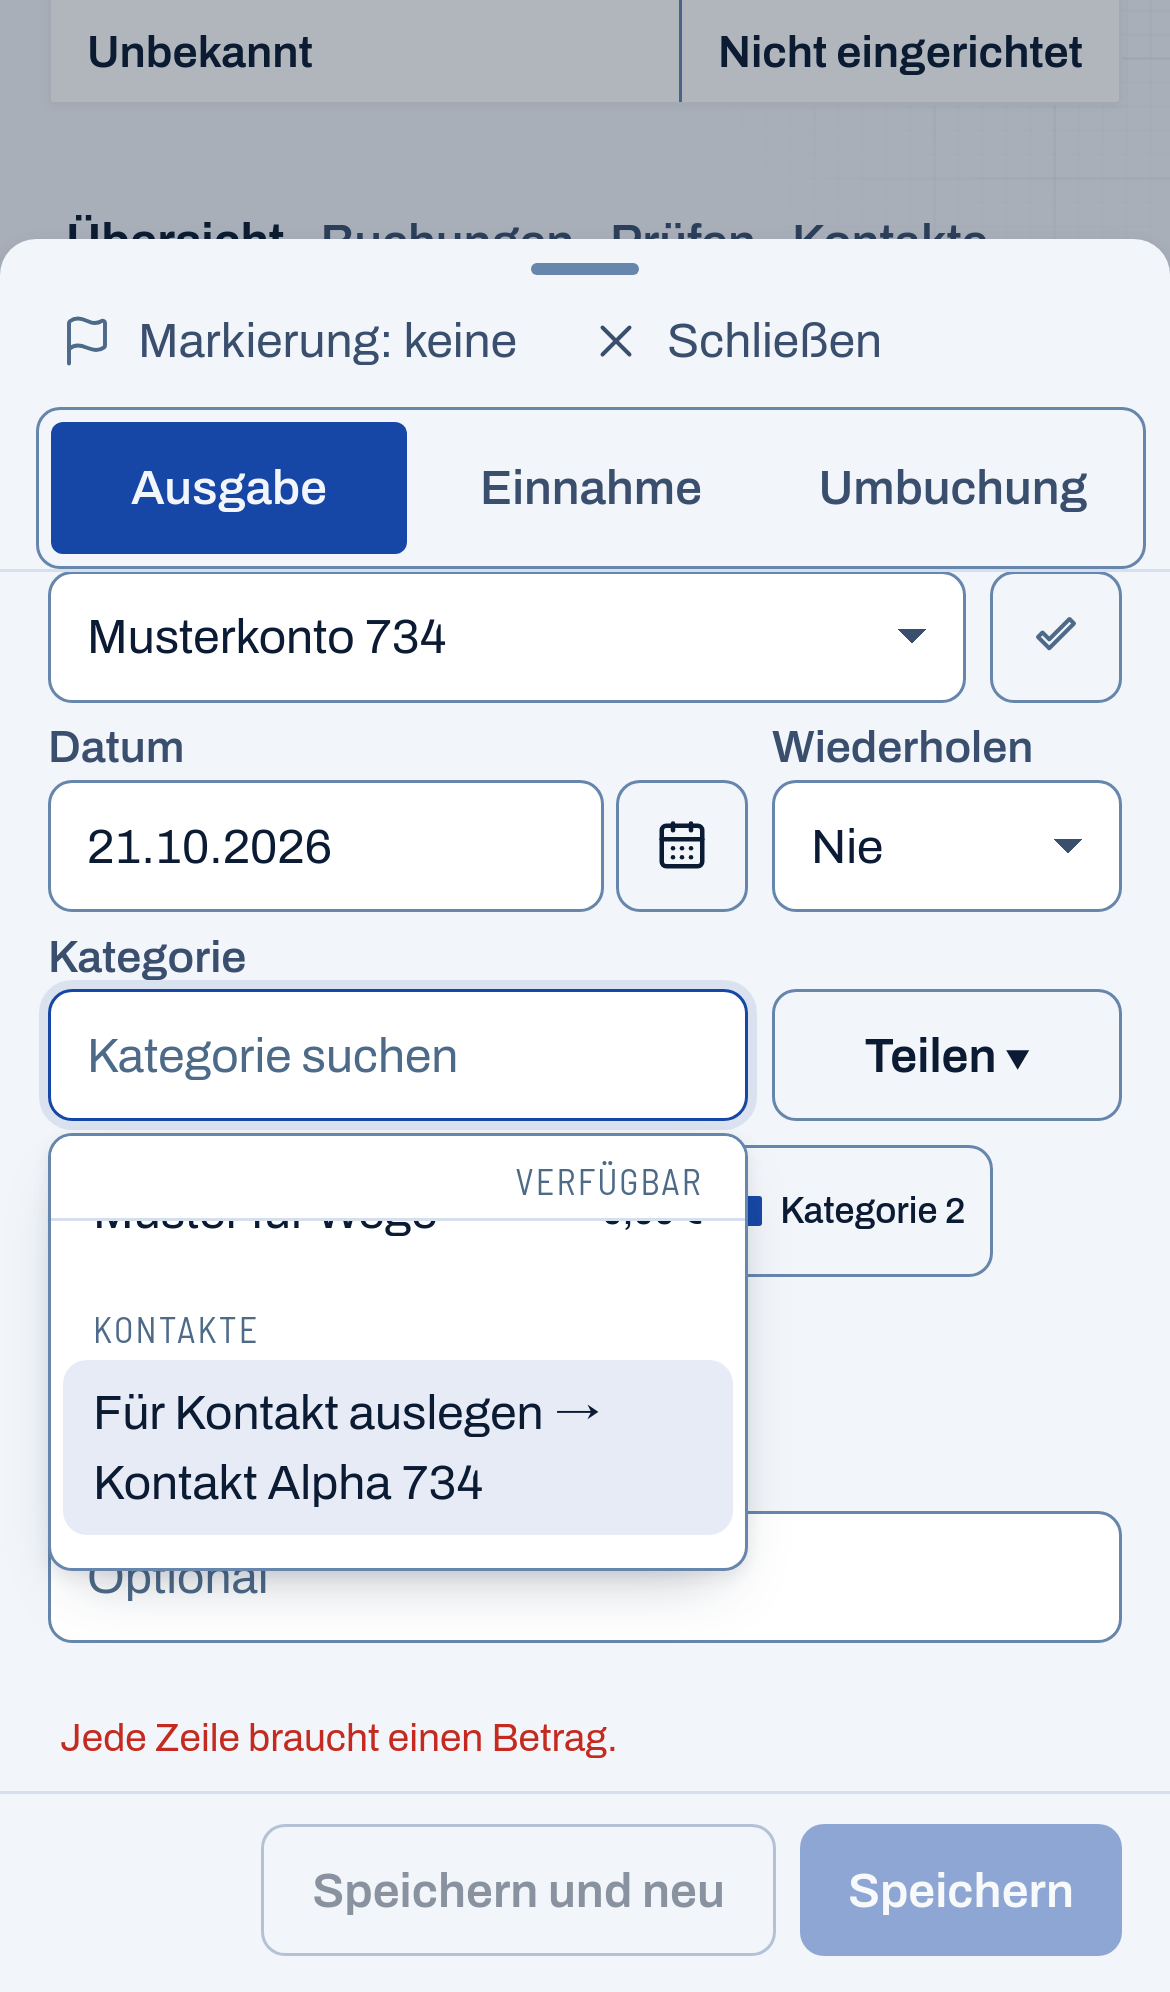
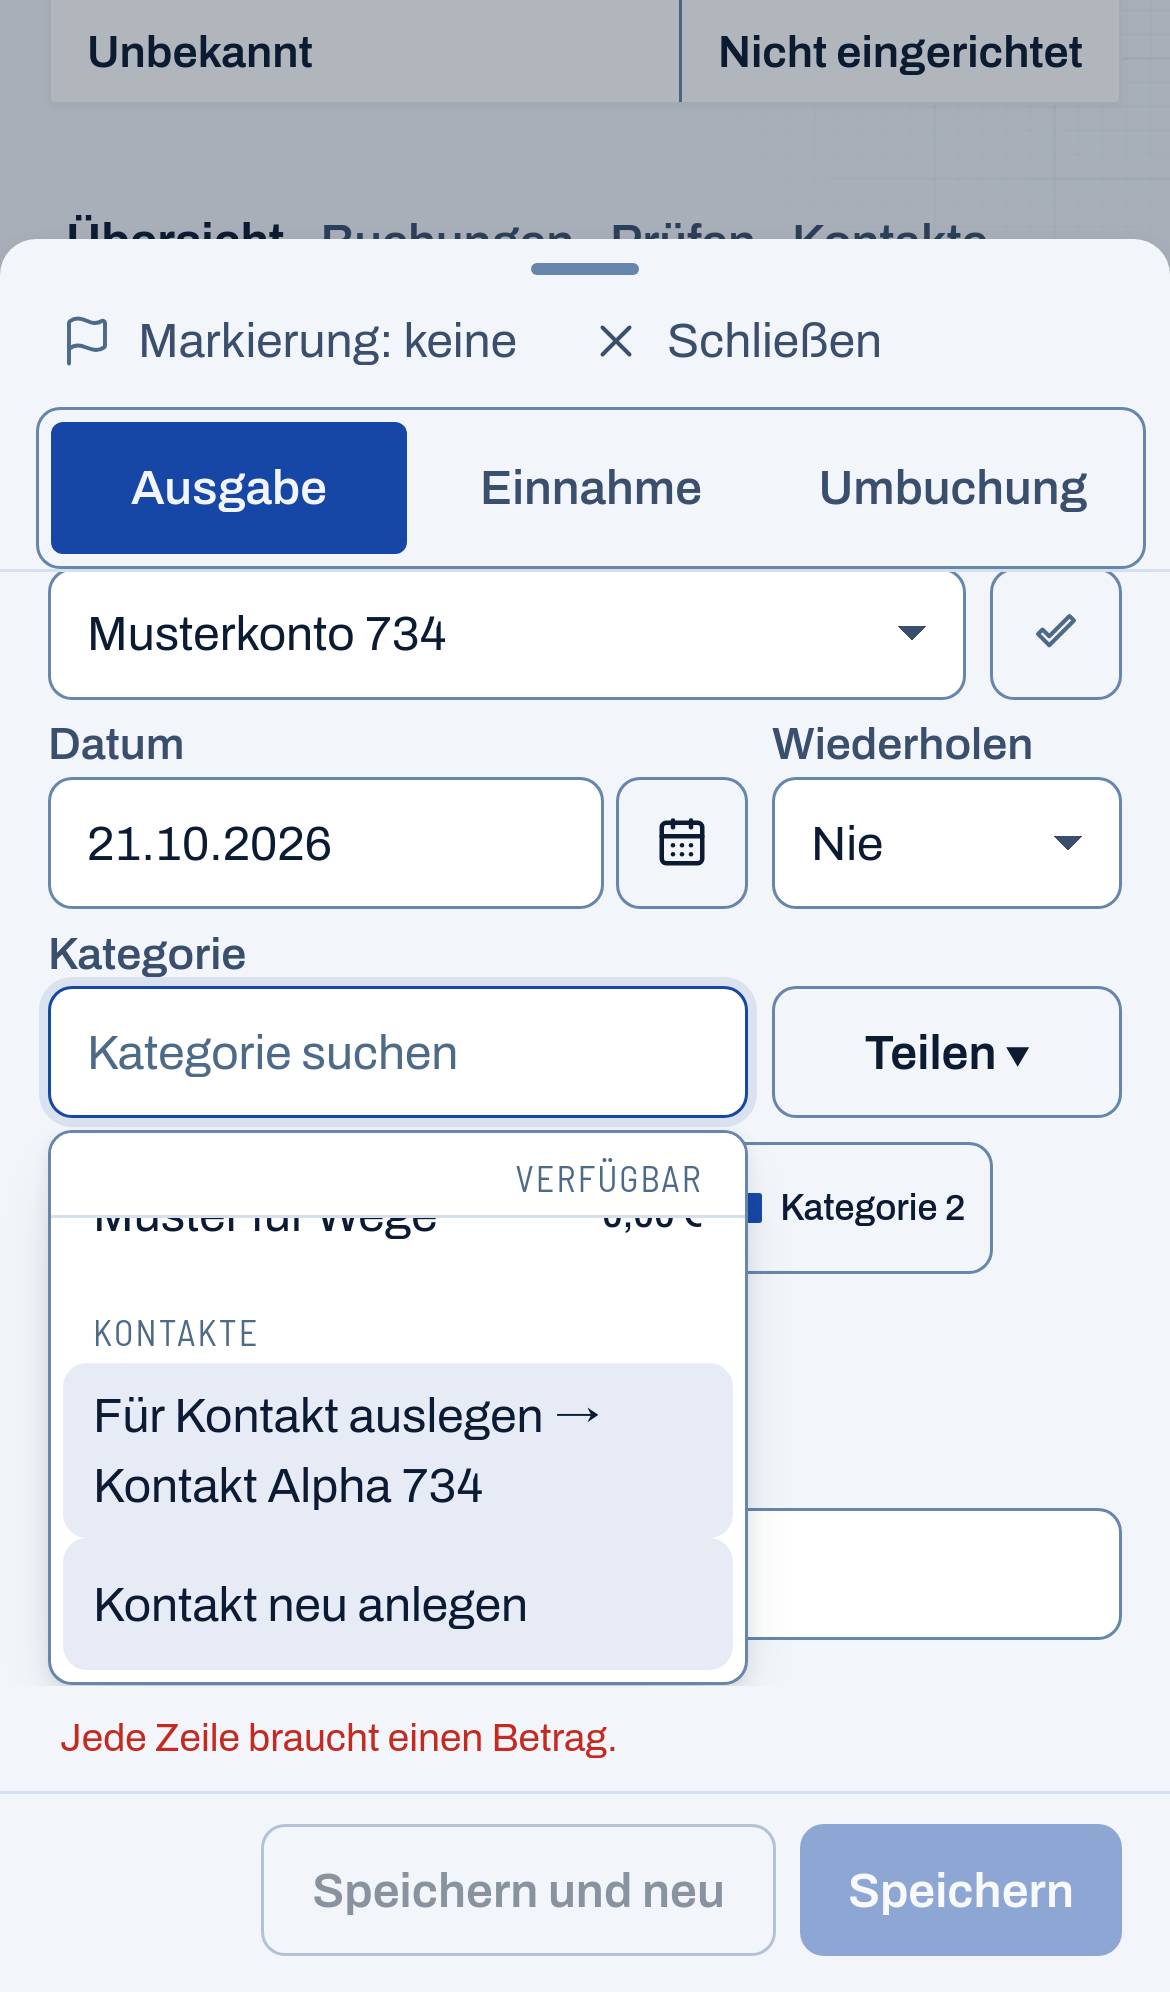
fix(ui): preserve capture picker focus and scroll visibility
Refs #734. Preserve failed full-check and independent build results in evidence.

diff --git a/apps/web/src/ledger/capture-category-picker-734.test.tsx b/apps/web/src/ledger/capture-category-picker-734.test.tsx
@@ -1,10 +1,10 @@
 // @vitest-environment jsdom
 import { QueryClient, QueryClientProvider } from '@tanstack/react-query';
 import { ToastProvider } from '@budget/ui';
-import { cleanup, render, screen } from '@testing-library/react';
+import { act, cleanup, render, screen } from '@testing-library/react';
 import userEvent from '@testing-library/user-event';
 import { useState } from 'react';
-import { afterEach, expect, it } from 'vitest';
+import { afterEach, expect, it, vi } from 'vitest';
 import { SplitEditor, captureLines } from './split-editor';
 import { buildCreate, emptyDraft, type BookingDraft } from './booking-model';
 import { Combobox } from './combobox';
@@ -151,4 +151,35 @@ it('preserves the default payee combobox cap and prefix matching', async () => {
     'Muster Anfang',
     'Vorher Muster',
   ]);
+});
+
+it('keeps a focused category picker visible when the root document is scrolled behind its modal', async () => {
+  const oldOverflowX = document.documentElement.style.overflowX;
+  const oldOverflowY = document.documentElement.style.overflowY;
+  document.documentElement.style.overflowX = 'hidden';
+  document.documentElement.style.overflowY = 'hidden';
+  expect(getComputedStyle(document.documentElement).overflowX).toBe('hidden');
+  expect(getComputedStyle(document.documentElement).overflowY).toBe('hidden');
+  const rect = vi
+    .spyOn(HTMLElement.prototype, 'getBoundingClientRect')
+    .mockReturnValue(new DOMRect(16, 100, 233, 44));
+  const rootRect = vi
+    .spyOn(document.documentElement, 'getBoundingClientRect')
+    .mockReturnValue(new DOMRect(0, -1000, 390, 3000));
+  const rootHeight = vi.spyOn(document.documentElement, 'clientHeight', 'get').mockReturnValue(768);
+  try {
+    const user = mount([category('cat-root', 'Kategorie sichtbar', 'Gruppe A')]);
+    const field = screen.getByRole('combobox', { name: 'Kategorie' });
+    await user.click(field);
+    act(() => window.dispatchEvent(new Event('resize')));
+    expect(field.getAttribute('aria-expanded')).toBe('true');
+    expect(screen.getByRole('option', { name: 'Kategorie sichtbar' })).toBeTruthy();
+    expect(screen.getByRole('listbox').hidden).toBe(false);
+  } finally {
+    rootHeight.mockRestore();
+    rootRect.mockRestore();
+    rect.mockRestore();
+    document.documentElement.style.overflowX = oldOverflowX;
+    document.documentElement.style.overflowY = oldOverflowY;
+  }
 });

diff --git a/apps/web/src/ledger/combobox.tsx b/apps/web/src/ledger/combobox.tsx
@@ -132,7 +132,12 @@ export function Combobox({
       let bottom = top + (viewport?.height ?? window.innerHeight);
       let left = viewport?.offsetLeft ?? 0;
       let right = left + (viewport?.width ?? window.innerWidth);
-      for (let node = field.parentElement; node; node = node.parentElement) {
+      // visualViewport already defines the root clip; the root document rect scrolls.
+      for (
+        let node = field.parentElement;
+        node && node !== document.documentElement;
+        node = node.parentElement
+      ) {
         const style = getComputedStyle(node);
         const box = node.getBoundingClientRect();
         if (/(auto|scroll|hidden|clip)/.test(style.overflowY)) {
@@ -234,6 +239,12 @@ export function Combobox({
             value={value}
             placeholder={placeholder}
             onFocus={(e) => {
+              // A newly focused split row can be outside the sheet after it grows. Reveal the
+              // anchor once; later manual scrolling still hides an offscreen picker.
+              if (captureCategory) {
+                e.currentTarget.scrollIntoView?.({ block: 'nearest', inline: 'nearest' });
+                setAnchorVisible(true);
+              }
               setFocused(true);
               setDismissed(false);
               onFocusChange?.(true);

diff --git a/e2e/issue-734-category-picker.spec.ts b/e2e/issue-734-category-picker.spec.ts
@@ -387,8 +387,20 @@ for (const profile of ['configured', 'desktop1440'] as const) {
             .toBeLessThan(initialBounds.clipBottom - initialBounds.clipTop);
           expect(await scroller.evaluate((el) => el.scrollTop)).toBe(scrollBefore);
           if (actual.coarse) {
-            // At this fixed phone height the field leaves the dialog's clipping region.
-            // Its popup must hide until an explicit key brings the field back into view.
+            // Fresh focus can scroll the anchor before resize. Arrange a fully hidden
+            // anchor explicitly; a partially visible field may correctly keep its popup.
+            await scroller.evaluate((el) => {
+              el.scrollTop = 0;
+            });
+            await expect
+              .poll(() =>
+                field.evaluate((el) => {
+                  const clip = el.closest('.bk-body')!.getBoundingClientRect(),
+                    box = el.getBoundingClientRect();
+                  return box.bottom <= clip.top || box.top >= clip.bottom;
+                }),
+              )
+              .toBe(true);
             await expect(list).toBeHidden();
             await expect(field).toHaveAttribute('aria-expanded', 'false');
             await field.press('Enter');

diff --git a/apps/web/src/ledger/ledger.css b/apps/web/src/ledger/ledger.css
@@ -1537,6 +1537,8 @@
   font-size: var(--fs-title);
 }
 .bk-body {
+  /* Keep native scroll alignment clear of fractional clipping at the sheet edge. */
+  scroll-padding-block: 1px;
   min-height: 0;
   overflow: auto;
   padding: 16px 20px 12px;

diff --git a/docs/evidence/category-picker-734/README.md b/docs/evidence/category-picker-734/README.md
@@ -11,8 +11,9 @@ hides its popup; Enter reveals the field without choosing an invisible option.
 
 ## Current browser evidence
 
-Canonical WebKit passed **7/7**: four feature cases (both themes, true desktop
-1440 × 900 and configured phone 390 × 664) plus three setup cases. Each feature
+Canonical WebKit passed **9/9**: four feature cases (both themes, true desktop
+1440 × 900 and configured phone 390 × 664), two unchanged capture-dialog
+regressions, and three setup cases. Each feature
 case reached grouped IDs, contacts last, 63 entries, manual list scrolling,
 keyboard traversal beyond entry 60, twelve upward steps below the sticky heading,
 viewport resize, active-option visibility,
@@ -21,7 +22,7 @@ Desktop DPR is 1 with a fine pointer. Phone DPR is 3 with a coarse pointer;
 `maxTouchPoints` was 0. This is browser emulation, not physical-device evidence.
 
 The initial desktop popup was 466 pixels high; phone was 320 pixels. The phone
-capture below follows the resize/reveal stress and has a confined 146-pixel
+capture below follows the resize/reveal stress and has a confined 185-pixel
 popup. These captures show the scrolled list tail, not every option at once.
 The sticky availability heading can cover the preceding partly scrolled row;
 the active contact remains visible. The popup overlays lower form fields. A wrapped
@@ -57,22 +58,51 @@ The product now uses the actual heading boundary and outward-rounded list-only
 scroll targets; no visibility tolerance was added. Twelve real ArrowUp steps to
 literal category 49 and twelve ArrowDown steps back to the same contact pass.
 
-At a fixed phone height of 450 pixels the anchor legitimately leaves the dialog
-clip. The test explicitly requires hiding and Enter recovery with the same draft,
-selection and no extra POST. Desktop retains the visible-resize assertion; both
-contexts also retain the later deliberate manual-hide/reopen checks.
-The current **7/7** reuses the exact 166 compiled files from the fresh E2E build
-of the final product source after this NEW-test-only phone fixture correction.
-Historical pass totals are not added together. An earlier full check was
-intentionally stopped when review found the heading defect; it has no completed
-unit aggregate or normal-build result. The final required full check on base `9baa582f` with this feature's reviewed
-source (freeze `4a22a00d`) passed **578 files / 5,162 tests** (832.22s
-Vitest duration) with AGE1 and one worker. `npm run check` and the subsequent
-normal `npm run build` both exited 0. Only factual result text in this guide and
-the Roadmap changed afterwards; exact-head CI and LIVE remain pending.
+PR #736's first exact-head CI exposed capture interaction regressions despite the
+historical focused 7/7 and full-check checkpoint. Two unchanged capture-dialog
+cases reproduced locally: a newly focused second split was below the scroller,
+and native scroll alignment left a suggestion chip partly clipped. Fresh focus
+now reveals its anchor once; subsequent manual scrolling still hides an offscreen
+popup. The viewport owns the root clip independently of document scrolling.
+A one-pixel scroller scroll-padding reserves real alignment clearance: the measured
+native scroll moved from 14 to 15 pixels and the unchanged strict visibility ratio
+reached exactly 1. Ineffective target scroll-margin attempts are retained in the
+outside diagnostic history, not the product. A NEW root-viewport regression fails
+with only the old root clipping loop restored and passes with the correction.
+
+After resizing to height 450px, the phone test first verifies unchanged body scroll,
+then explicitly arranges and proves a fully offscreen anchor before requiring
+hidden/Enter recovery with the same draft, selection and no extra POST. A partly
+visible anchor may correctly retain its popup. Desktop retains visible-resize
+checks; both contexts retain the later deliberate manual-hide/reopen checks.
+
+The current **9/9** reuses the exact 166 compiled files from fresh E2E build 62562
+on the corrected product. Combined run 42762 performs no rebuild. It includes the
+previously failing unchanged capture-dialog cases and all four NEW feature cases;
+historical and focused pass totals are not added together. The earlier full check
+on base `9baa582f` plus feature freeze `4a22a00d` passed **578 files / 5,162 tests**
+(832.22s Vitest duration, AGE1/one worker) and normal production build. That is a
+historical checkpoint before these interaction corrections. An even earlier
+interrupted check has no completed unit aggregate or normal-build result.
+The current AGE1/two-worker check on base `9baa582f`, parent `a216d438` and
+corrected source/evidence freeze `b8e60568` completed with **577 files passed /
+1 failed** (578 total), and **5,162 tests passed / 1 failed** (5,163 total), in
+521.57s Vitest duration.
+
+The sole failure is the unchanged server test
+`statement-settlement-727.test.ts:202` exceeding its existing 5,000ms limit; no
+numerical mismatch was reported. The check exited 1, so its pipeline did not run
+a production build. A separately invoked normal `npm run build` then exited 0
+(Vite 7.57s; esbuild 547ms). This independent build does not make the required
+check green.
+
+Only factual result prose in this guide and the Roadmap changed afterwards; no
+retry, timeout change or old-test edit was made. Exact new-head
+Chromium/required CI and serial LIVE remain pending;
+the failed first PR head is not represented as accepted.
 
 - [x] Independent source review and four original screenshot review
-- [x] Canonical local WebKit 7/7, no skips, retries or flaky cases
-- [x] Required AGE full check and normal production build on final source
+- [x] Canonical local WebKit 9/9, no skips, retries or flaky cases
+- [ ] Required AGE full check and normal production build on current corrected source
 - [ ] Exact-head Chromium/required CI
 - [ ] Serial merge and verified LIVE revision

diff --git a/docs/ROADMAP.md b/docs/ROADMAP.md
@@ -1700,19 +1700,29 @@ Prior local36819 (B414+A540f, incoming tree equivalent to LIVE84bb) AGE1/workers
 
 ### #734 — Grouped, reachable category pickers
 
-- Bank review retains the exact eligible category IDs in native category groups;
-  capture places categories before contacts, including filtered matches. The
-  capture-only popup removes the 60-result cap, uses actual viewport/dialog bounds
-  and preserves compact fine-pointer rows and coarse targets of at least 44px.
-- [x] Independent source review; synthetic desktop/phone light/dark originals
-  and [qualified local evidence](evidence/category-picker-734/README.md).
-- [x] Current canonical WebKit 7/7 (four feature cases plus three setup): strict
-  sticky-heading bounds, twelve upward steps, outward-rounded scrolling, resize,
-  phone450 hidden/recovery, both-context manual hide/reopen, Axe and real capture
-  split/save/Undo. Bank confirmation transport alone is synthetic with exact
-  request/no-real-write oracles; no real bank-confirmation/Undo claim. Phone is
-  390×664 CSS pixels, DPR3, raw touch count0. Earlier interrupted full is not green.
-- [x] Required AGE1/one-worker full check: 578 files / 5,162 tests passed
-  (832.22s Vitest duration), then normal production build passed; base `9baa582f`
-  plus reviewed feature freeze `4a22a00d`. Only factual result docs changed after that checkpoint.
-- [ ] Exact-head Chromium/required CI, serial merge and verified LIVE.
+- Bank review retains exact eligible category IDs in native groups. Capture places
+  categories before contacts, including filtered matches, removes its 60-result
+  cap, bounds the popup to viewport/dialog clips and retains compact fine-pointer
+  rows and coarse targets of at least 44px. Other consumers retain their defaults.
+- [x] Independent source and original desktop/phone light/dark review;
+      [qualified current evidence](evidence/category-picker-734/README.md).
+- [x] Current canonical WebKit 9/9: four feature cases, two unchanged capture-dialog
+      regressions and three setup cases. New-focus recovery, root viewport clipping,
+      real one-pixel native-scroll clearance, strict header-aware upward traversal,
+      explicit phone 450px hidden/Enter recovery, manual hide/reopen, Axe and real
+      capture split/save/Undo passed. Bank confirmation transport alone is synthetic;
+      no real bank-confirmation/Undo claim. Phone 390 × 664, DPR 3, raw touch count 0;
+      current poststress popup 185px, initial 320px. Combined run reused exact 166 files
+      from the corrected fresh E2E build, with no rebuild or added historical totals.
+- Historical AGE1/one-worker full: 578 files / 5,162 tests and normal build passed on
+  base `9baa582f` plus freeze `4a22a00d`, before the PR736 interaction corrections.
+- [ ] Current required AGE1/two-worker check: 577 files passed / 1 failed (578
+      total), 5,162 tests passed / 1 failed (5,163 total), 521.57s Vitest
+      duration. The unchanged #727 server test
+      `statement-settlement-727.test.ts:202` timed out at its existing 5,000ms
+      limit. Check exited 1; no pipeline build ran. Independent normal
+      production build subsequently passed (Vite 7.57s, esbuild 547ms); the
+      required full check remains failed. Base `9baa582f`, parent `a216d438`,
+      corrected freeze `b8e60568`. No retry/old-test edit; only factual result
+      prose changed afterwards.
+- [ ] Exact new-head Chromium/required CI, serial merge and verified LIVE.
